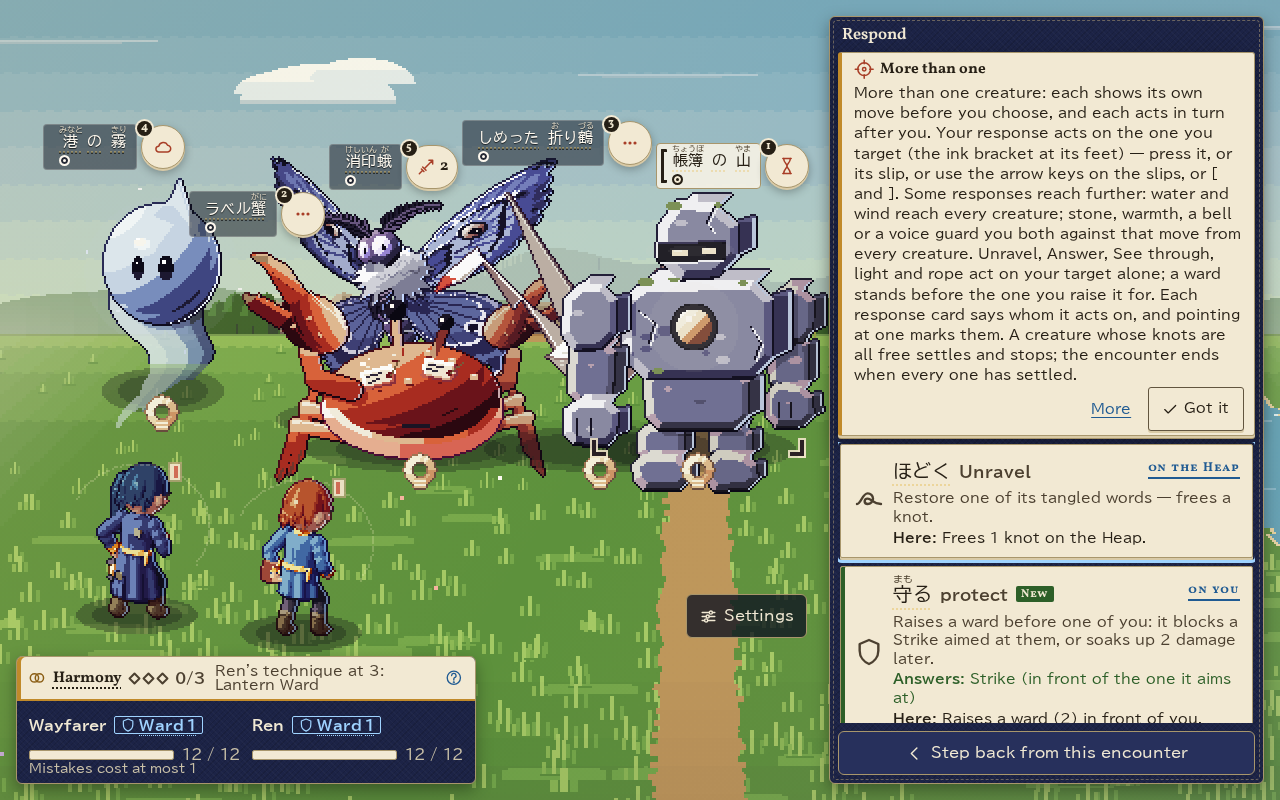
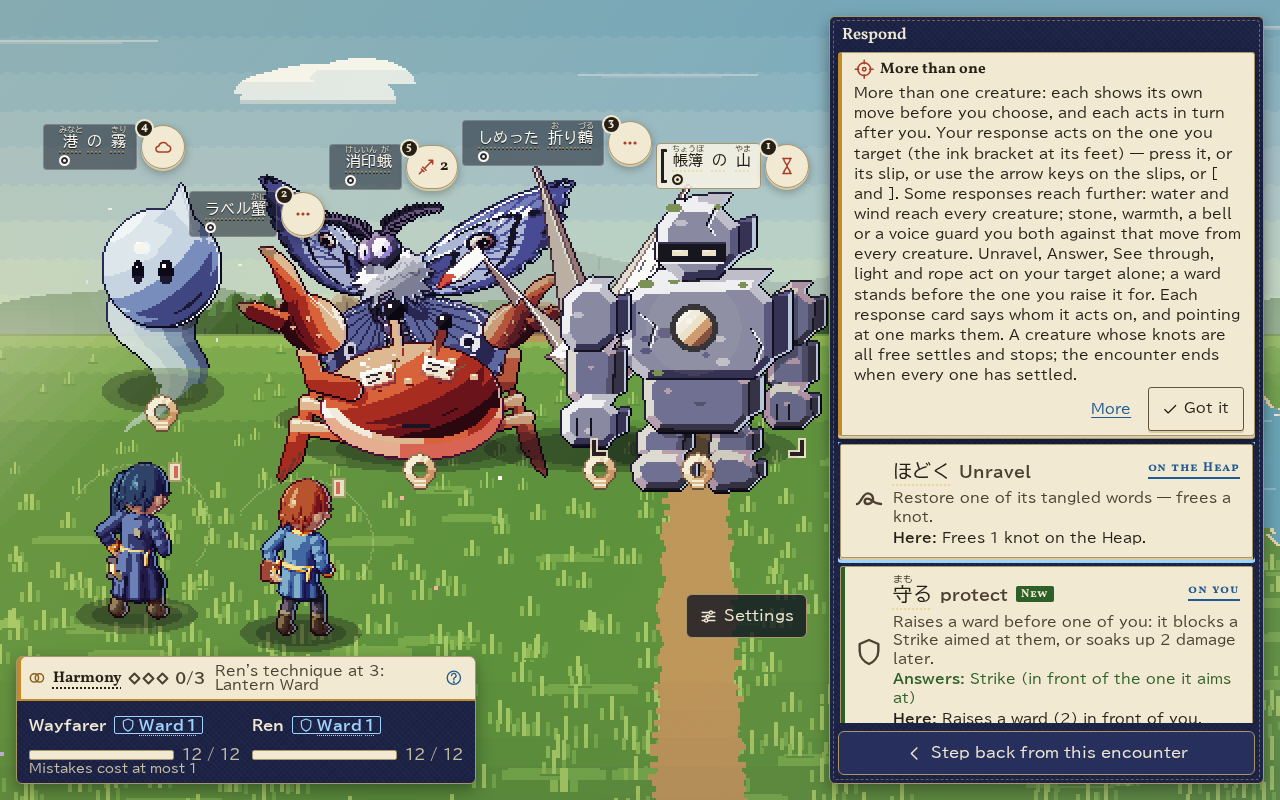
The twelve chapters on the lit build: 17/17 legs, 0 problems; encounter captures redrawn
Claude-Session: https://claude.ai/code/session_015RcFBxQ5xp952n4kFB8UbL

diff --git a/docs/future/work/P17_CLOSURE.md b/docs/future/work/P17_CLOSURE.md
@@ -22,7 +22,7 @@ status. Its exit: a candidate whose focused evidence is complete enough to justi
 | The whole unit and content suite | `node tests/run-unit.mjs` | **51,943 passed, 0 failed** (on 5a51943; the later commits change interface order and tests only, each with its own suites run) |
 | Speed | `tests/e2e/load_budget.mjs`, `tests/e2e/perf.mjs` on a quiet machine | see below |
 | The twelve chapters from a new journey | `PURSUE_EDITION=2 node tests/e2e/pursue.mjs F ren twelve` (XP79) | **one uninterrupted run: 17 of 17 legs, 2,433 site visits in 65 minutes, to the ending (post, postgame, ch6_done); 0 problems, 0 page errors** |
-| The same on the shipped build's own default (C-84, C-85) | `PURSUE_EDITION=new node tests/e2e/pursue.mjs F ren twelve` (the edition the build gives a new journey) on a clean export of 75875c6 | **17 of 17 legs, 2,433 site visits in 64 minutes, to the ending; 0 problems, 0 page errors; 293 interactions met**; redone on the lit build (C-86) |
+| The same on the shipped build's own default (C-84, C-85) | `PURSUE_EDITION=new node tests/e2e/pursue.mjs F ren twelve` (the edition the build gives a new journey) on a clean export of 75875c6 | **17 of 17 legs, 2,433 site visits in 64 minutes, to the ending; 0 problems, 0 page errors; 293 interactions met**; on the lit build (C-86, 38928f5): **17 of 17, 2,433 visits in 78 minutes, 0 problems, 0 page errors** |
 | Light and shadow on every map (C-86) | `tests/e2e/world.mjs`, `tests/e2e/world_light.mjs`; captures `node tests/e2e/light_captures.mjs` → `docs/screenshots/light/` | world 13/0, world_light 4/0 (all 226 maps lit and drawn, no page error); Robin's review at completion |
 
 ## UI-A01–UI-A20 (§15A, U07)

diff --git a/VALIDATION.md b/VALIDATION.md
@@ -4413,6 +4413,12 @@ per art pixel, or the window), so at 1440×900 and on phones nothing resizes, as
 passes; `world.mjs` 13/0 (its clocks now pause 2 s ahead instead of 50 ms, which a machine busy with the chained run
 overshot: "Cannot fast-forward to the past" in two of its tests, a harness margin, not the game), `world_light.mjs`
 4/0. Part 1 was stopped there and is run again on the fixed build.
+
+**The twelve chapters on the lit build.** `PURSUE_EDITION=new node tests/e2e/pursue.mjs F ren twelve` on a clean export of
+38928f5 (light and shadow everywhere, the leak and shrub fixes; its own `index.html`, the repository's SHA-256), profile
+F with Ren, from the title screen's new journey: **all 17 legs, 2,433 site visits in 78 minutes (4,668 s; part of the
+complete run shared the machine), to the ending; 0 problems, 0 page errors**; 293 interactions met; the same legs and
+visit counts as before the light. The only change after 38928f5 is when the renderer resizes (c14725e above).
 - Browser `world.mjs` (rewritten for the shipped light: the flag no longer needed, Off pixel-identical to every layer
   off, the camera at 1920×1080 and a phone, a battle and back without a rebuild, at night the lamps cast): **13/0** in
   three runs on the scratch build; one earlier run, made while the unit suite loaded the machine, had one failure whose
